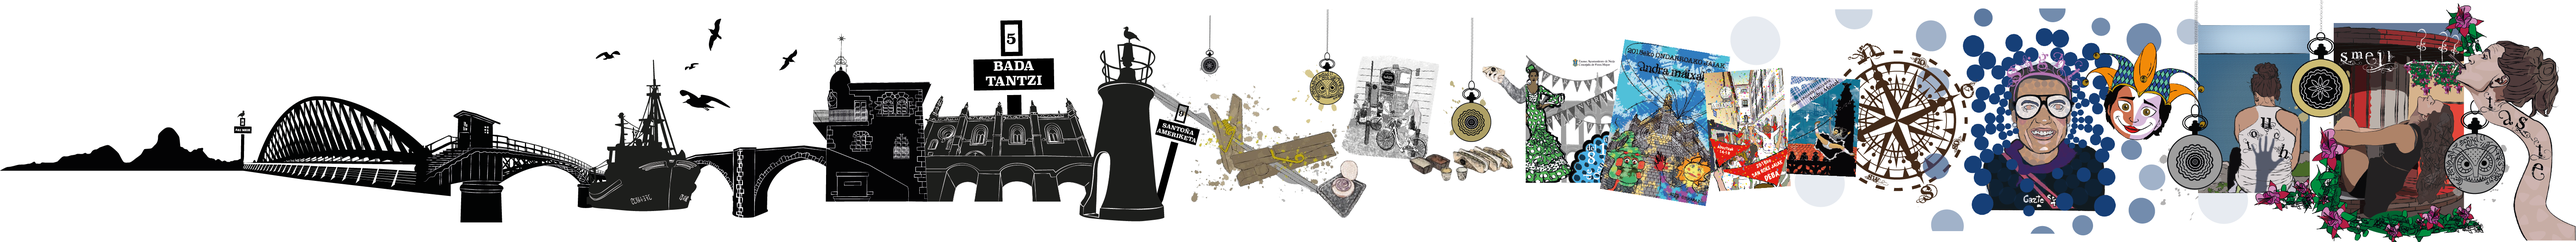
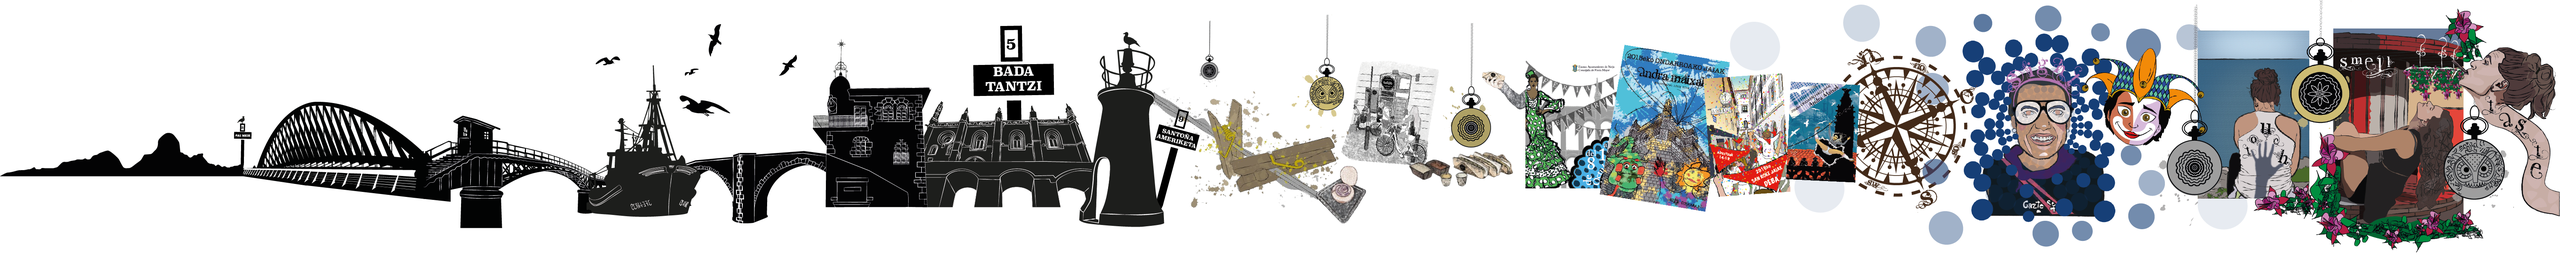
titulos de secciones bien puestos y el carrusel niquelao

diff --git a/biografia.html b/biografia.html
@@ -76,6 +76,11 @@
                     <h2 class="titulosection">Trabajos</h2>
                     <span class="circle-line right-line"></span>
                 </div>
+
+                <div>
+                    <img src="imagenes\tit-dis-gra.png" class="tit-seccion" alt="Diseño Gráfico">
+                </div>
+
                 <div class="ilustraciones-container">
                     <h3 class="titulo-trabajos">ILUSTRACIONES</h3>
                 </div>
@@ -85,8 +90,20 @@
 
                 <div class="identidad-corporativa-container">
                     <h3 class="titulo-trabajos">IDENTIDAD<br>CORPORATIVA</h3>
-                </div>        
+                </div>
+
+                <div class="otros-trabajos-container">
+                    <h3 class="titulo-trabajos">OTROS<br>TRABAJOS</h3>
+                </div>
+
+                <div>
+                    <img src="imagenes\tit-des-fron-end.png" class="tit-seccion" alt="Diseño Gráfico">
+                </div>     
                 
+                <div>
+                    <img src="imagenes\tit-fot.png" class="tit-seccion" alt="Diseño Gráfico">
+                </div>  
+
             </section>
             
             <section id="cv" class="section">
@@ -109,7 +126,7 @@
                                 </a>
                             </div> 
                             <div class="cv-columna-derecha">
-                                <p class="miBio">Diseñador gráfico con sólida base, combinada con un creciente interés y conocimiento en el desarrollo front-end. Gracias a mi experiencia en diseño, tengo un enfoque creativo, que convinando con tecnologías clave (HTML, CSS y JavaScript) logro tener un perfil multidisciplinario aportando un valor único al equipo para la creación de interfaces visuales atractivas y funcionales.</p>
+                                <p class="miBio">Diseñador gráfico con sólida base, combinada con un creciente interés y conocimiento en el desarrollo front-end. Gracias a mi experiencia en diseño, tengo un enfoque creativo, que combinando con tecnologías clave (HTML, CSS y JavaScript) logro tener un perfil multidisciplinario aportando un valor único al equipo para la creación de interfaces visuales atractivas y funcionales.</p>
                                 <div class="cv-items">
                                 <!-- Item 1 - Estudios -->
                                     <div class="cv-item">

diff --git a/js/script.js b/js/script.js
@@ -312,7 +312,7 @@ document.addEventListener('DOMContentLoaded', function() {
                     : 1 - Math.pow(-2 * progress + 2, 2) / 2;
                 
                 // Mover desde mitad de pantalla hasta borde derecho
-                currentX = (containerWidth * 0.25) - (easing * desplazamientoNecesario);
+                currentX = (containerWidth * 0.3) - (easing * desplazamientoNecesario);
                 applyTransform();
                 
                 if (progress < 1 && !isDragging) {

diff --git a/css/trabajos.css b/css/trabajos.css
@@ -10,17 +10,23 @@
     width: 100%;
 }
 
+.tit-seccion {
+    width: 50%;
+    margin: 5vh auto 0 auto;
+    display: block;
+}
+
 .titulo-trabajos {
     font-size: 1.5em;
     color: #ffffff;
     opacity: 0.5;
-    margin: 5vh 0 5vh 3vh;
+    margin: 2vh 0 0 3vh;
 }
 
 .ilustraciones-container {
     position: relative;
     width: 100%;
-    margin-bottom: 5vh;
+    margin-bottom: 1vh;
 }
 
 .carrusel {
